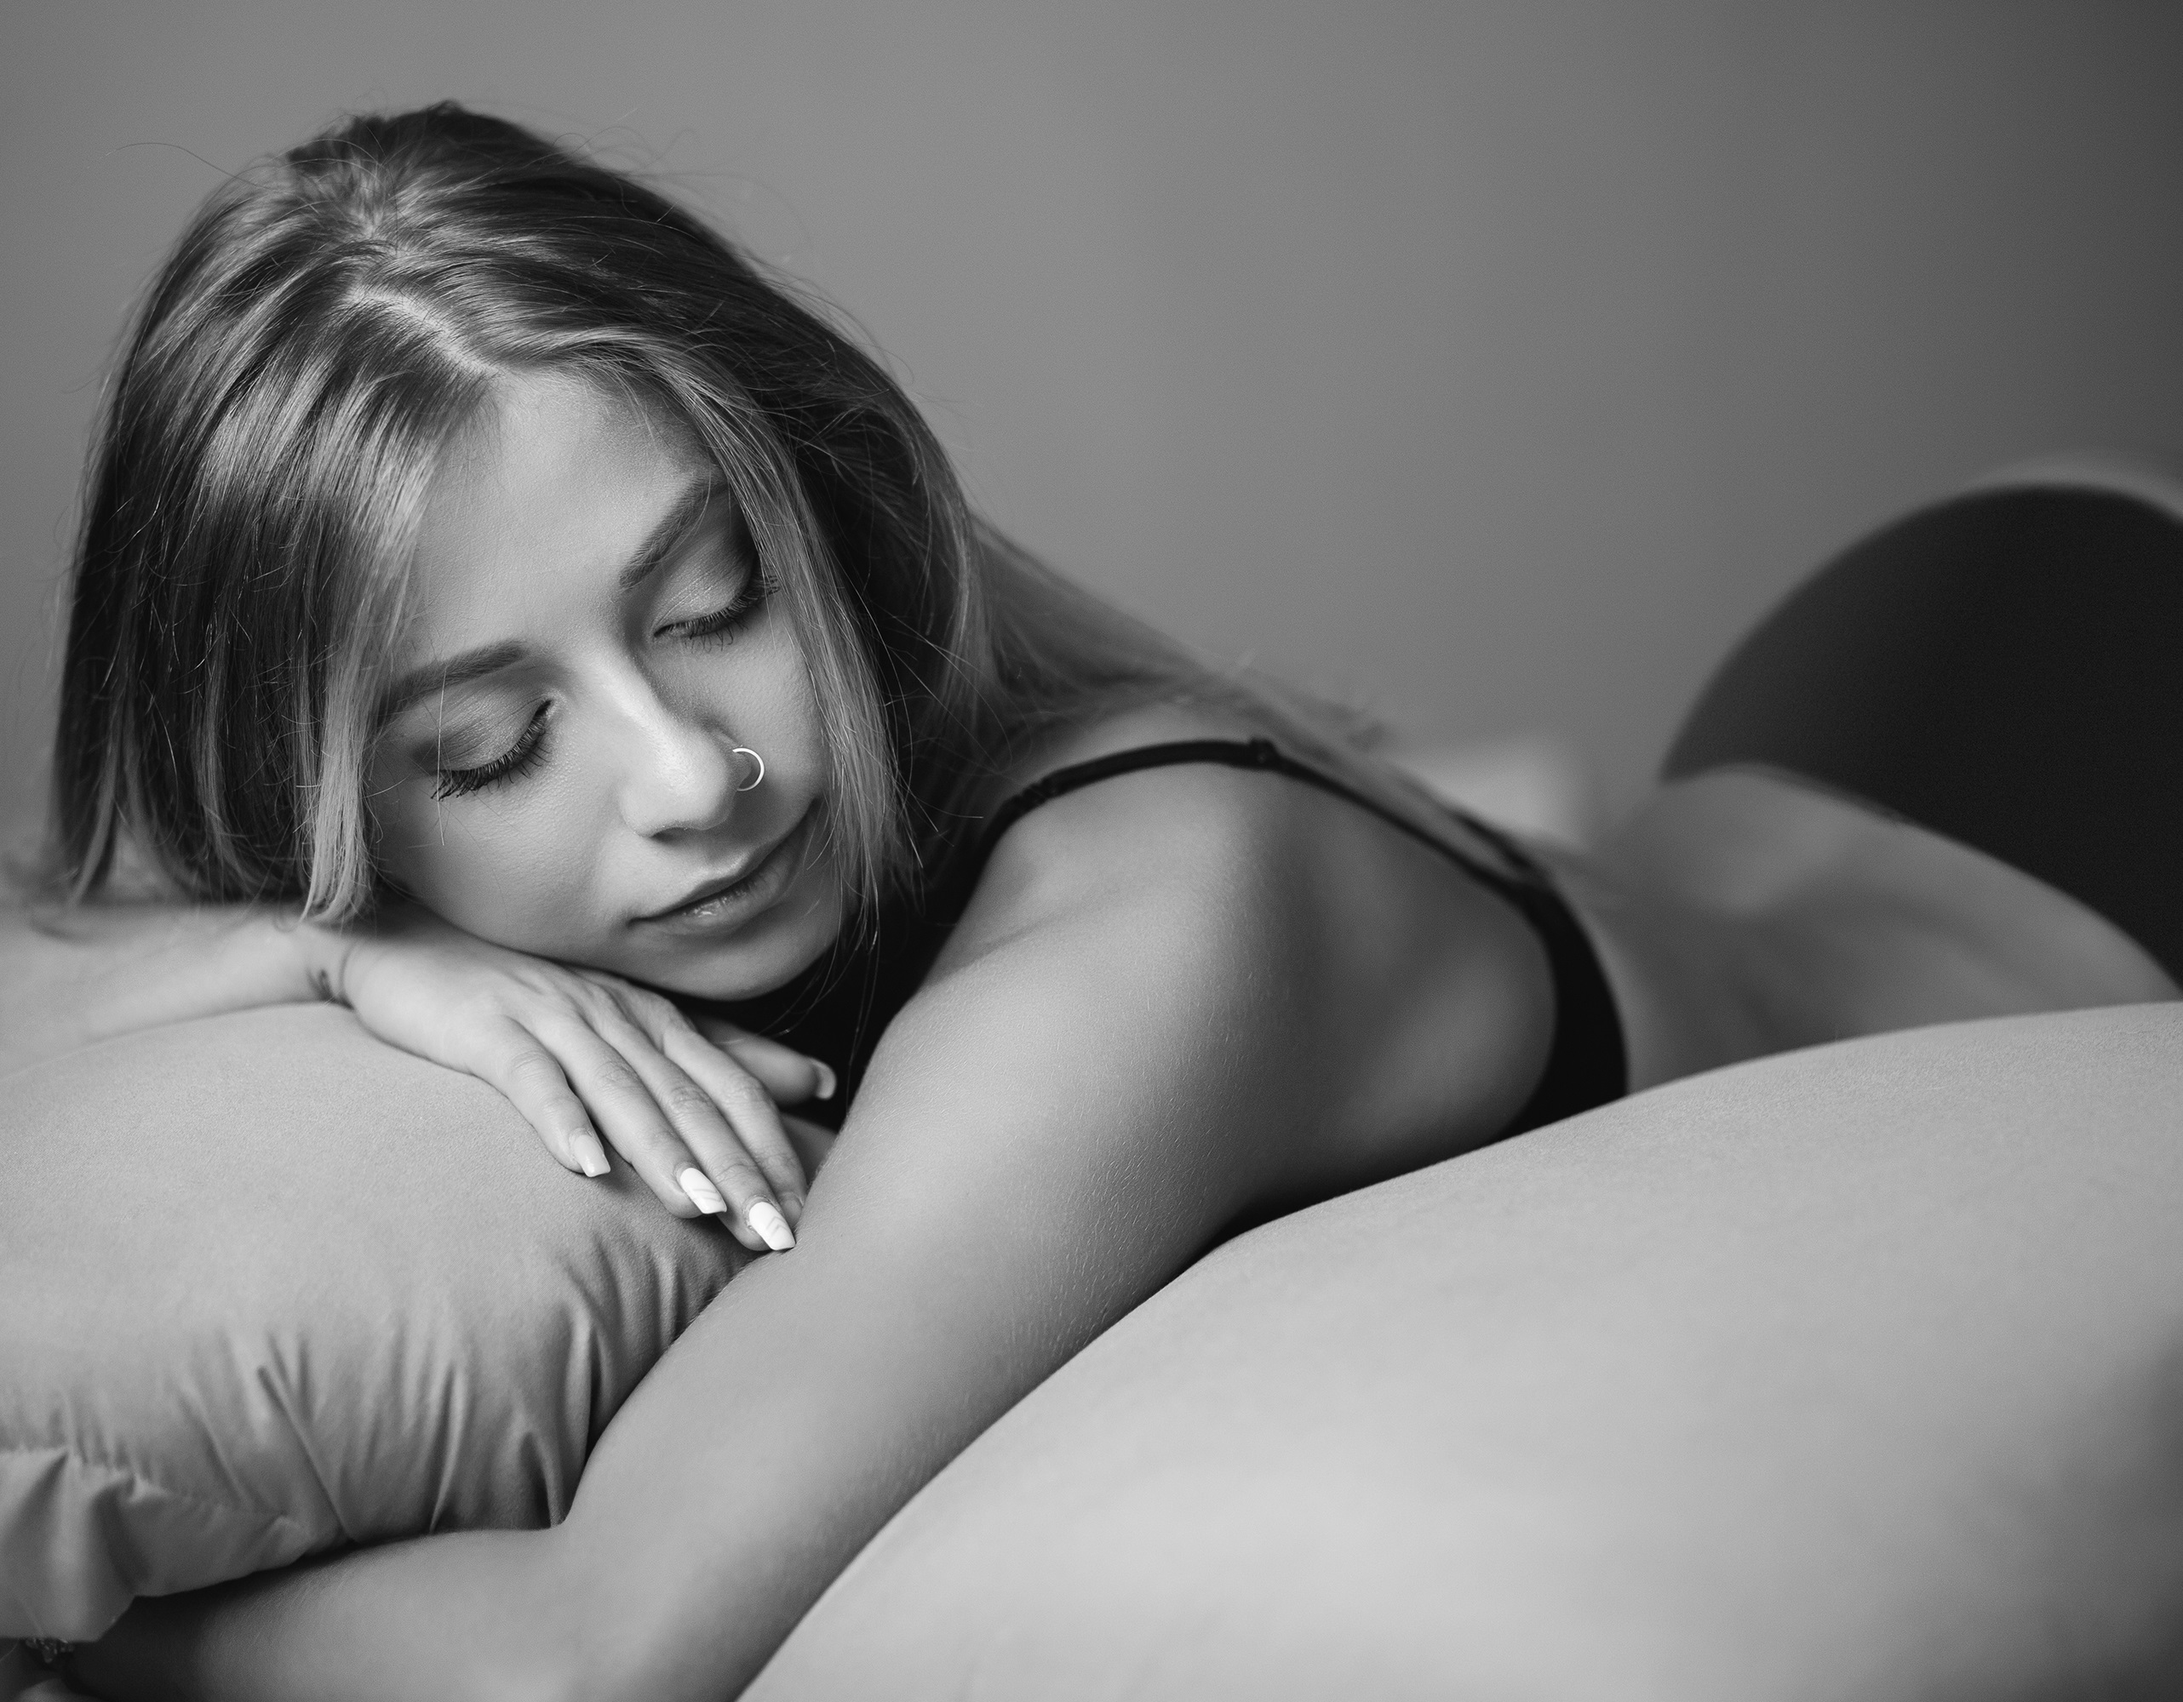
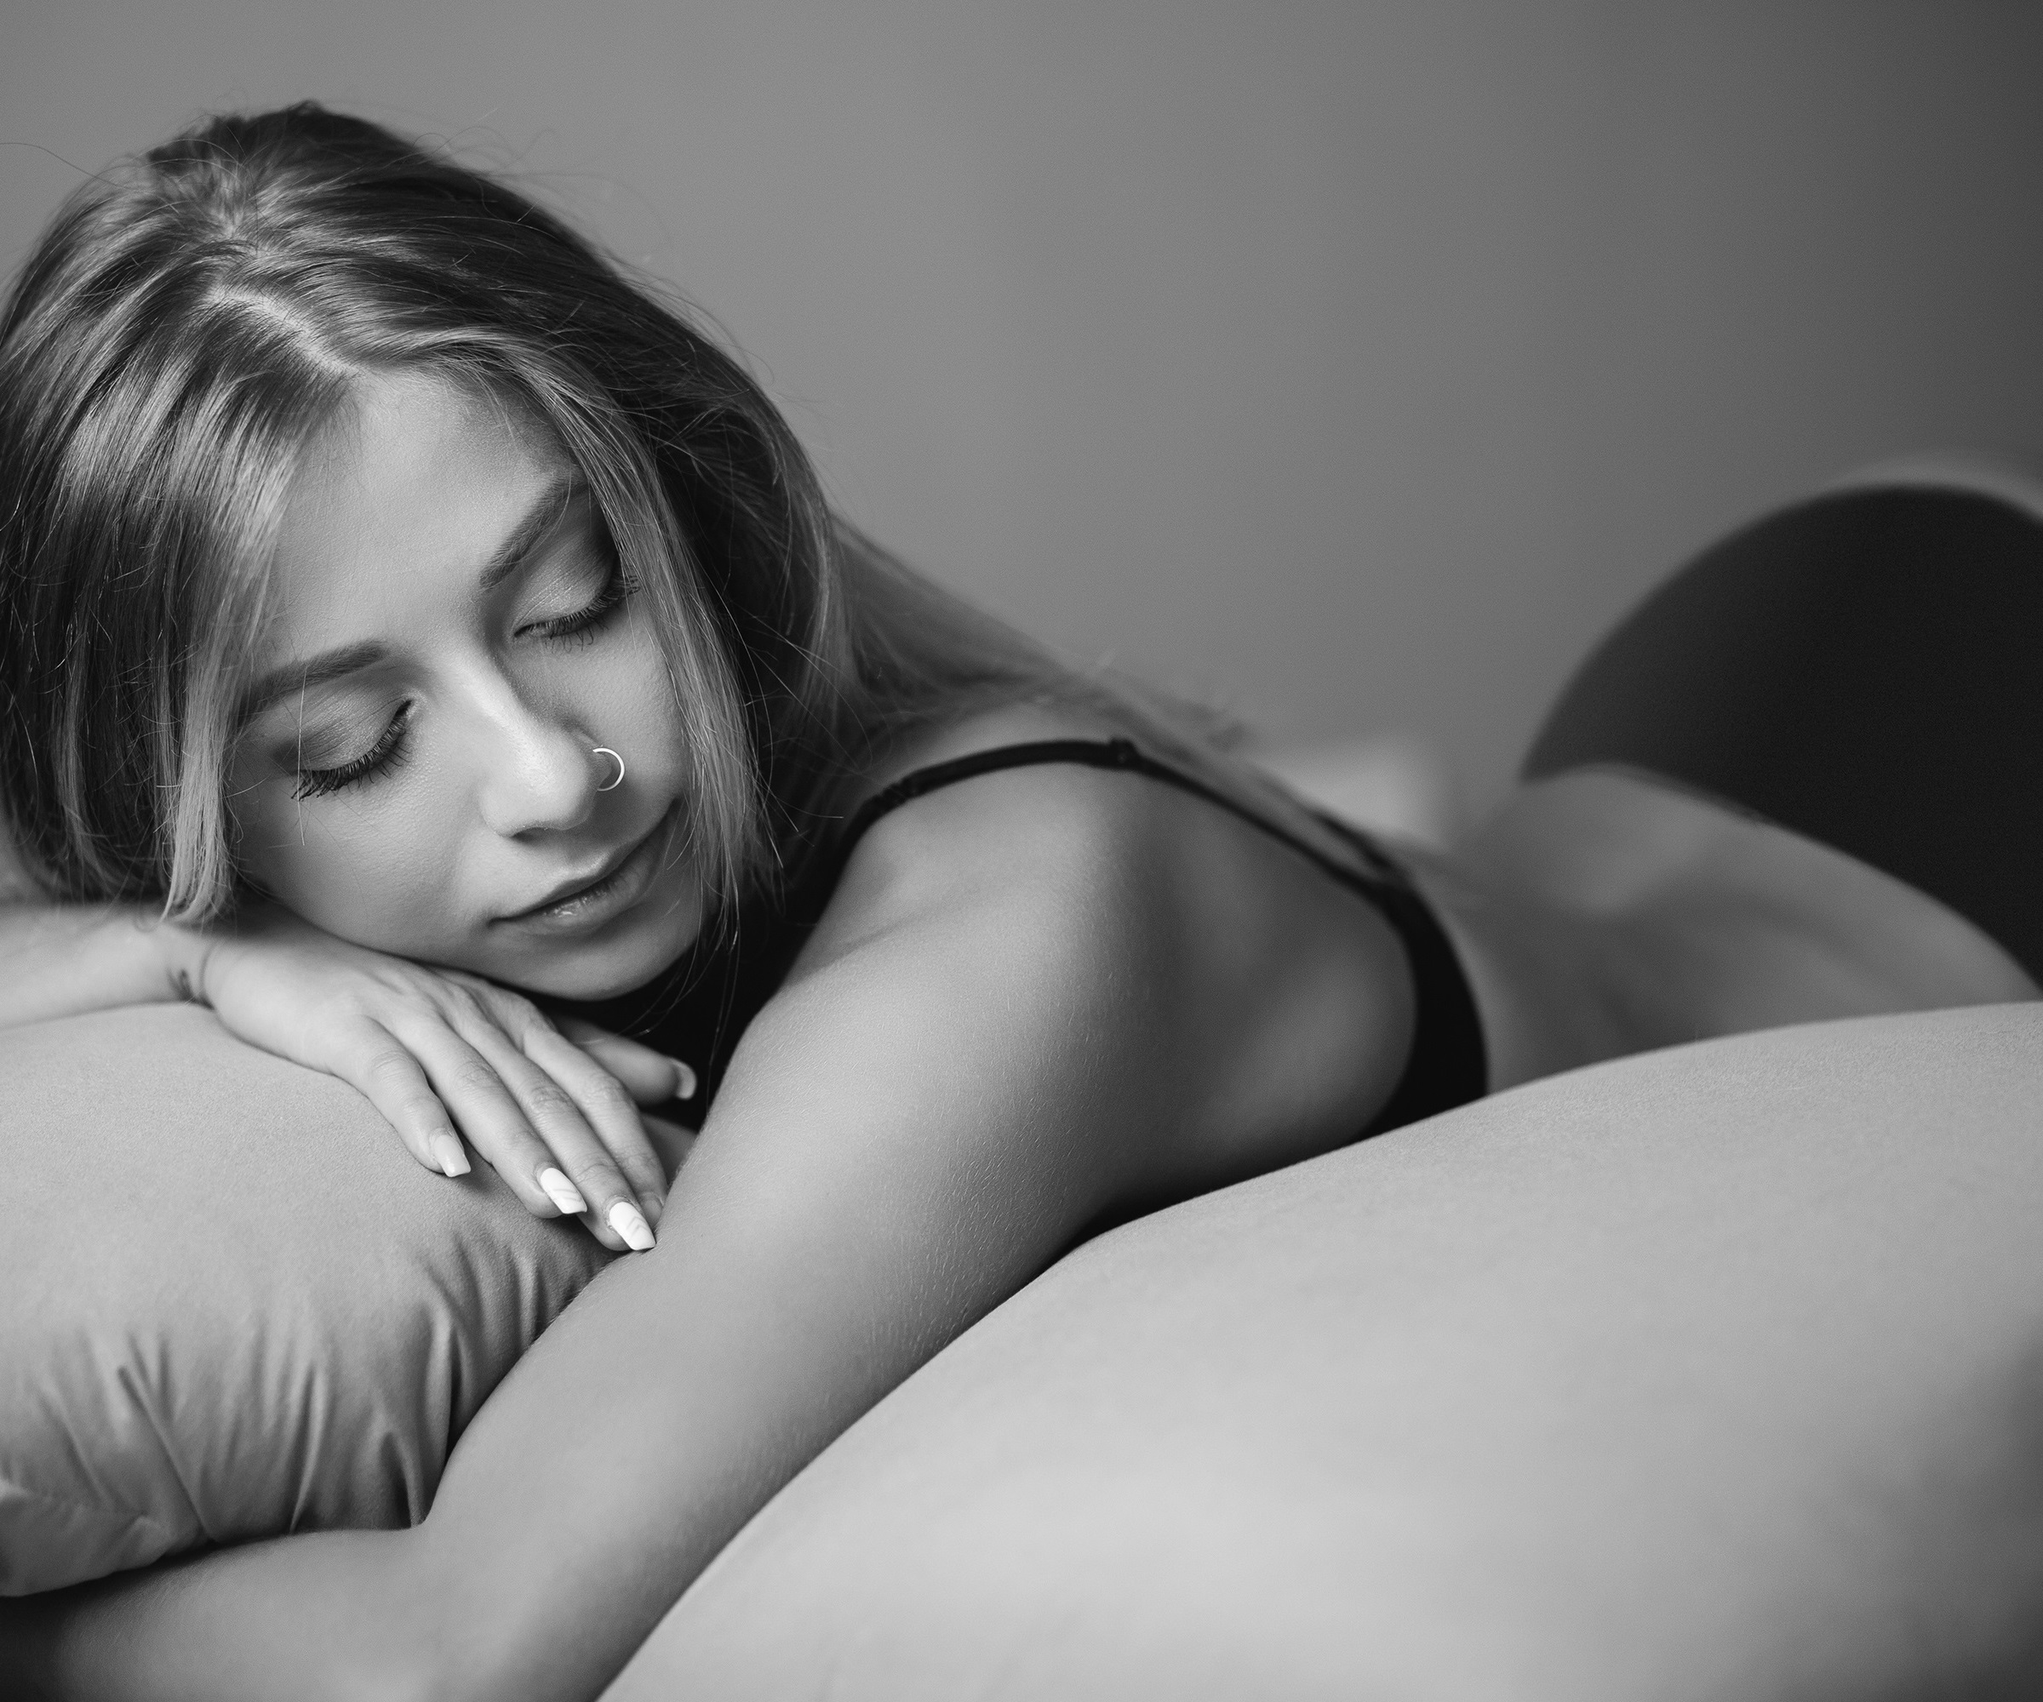
Foto stats y hero invertidas

diff --git a/src/components/Hero.tsx b/src/components/Hero.tsx
@@ -1,4 +1,5 @@
 import pic2 from "../../public/hero/pic2.jpg"
+import pic1 from "public/cta/pic1.jpg"
 import Image from "next/image";
 import logoNegro from 'public/logo-negro.png'
 
@@ -32,7 +33,7 @@ export default function Hero() {
         </svg>
       </div>
 
-      <div className="h-full lg:h-[calc(100%-0px)] relative">
+      <div className="h-full lg:h-[calc(100%-4rem)] relative">
         <div className="mx-auto max-w-7xl flex flex-col gap-8 lg:grid lg:grid-cols-12 lg:gap-x-8 lg:px-8 h-full">
           <div className="px-6 h-max py-8 lg:col-span-6 lg:px-0 xl:col-span-6 lg:h-full flex items-center justify-center">
             <div className="mx-auto max-w-2xl lg:ml-8">
@@ -73,8 +74,8 @@ export default function Hero() {
           <div className="hidden lg:inline-block h-full relative lg:col-span-6 lg:-mr-8 xl:absolute xl:inset-0 xl:left-1/2 xl:mr-0">
             <Image
               fill
-              className="lg:rounded-bl-[33%] w-full object-cover lg:aspect-auto lg:h-full object-[-75px] sm:object-center lg:object-[-150px]"
-              src={pic2}
+              className="lg:rounded-bl-[33%] w-full object-cover lg:aspect-auto lg:h-full object-[-75px] sm:object-center"
+              src={pic1}
               alt=""
             />
           </div>

diff --git a/src/components/Stats.tsx b/src/components/Stats.tsx
@@ -1,5 +1,8 @@
 import Image from "next/image"
 import pic1 from "public/cta/pic1.jpg"
+import pic2 from "../../public/hero/pic2.jpg"
+import pic3 from "../../public/hero/pic3.jpg"
+
 
 const stats = [
   { id: 1, name: 'Creadores de contenido', value: '1.000+' },
@@ -19,12 +22,22 @@ export default function Stats() {
             <path d="M0 0V1135H843.5C831 1068 730 809.5 556.5 718.5C433.5 661 163 582 163 404.5C154 317 222.5 26.5 0 0Z" fill="black" />
           </svg>
         </div>
-        <Image
-          fill
-          className="object-cover lg:rounded-r-3xl"
-          src={pic1}
-          alt=""
-        />
+        <div className="lg:hidden">
+          <Image
+            fill
+            className="object-cover lg:rounded-r-3xl"
+            src={pic1}
+            alt=""
+          />
+        </div>
+        <div className="hidden lg:inline-block">
+          <Image
+            fill
+            className="object-cover lg:rounded-r-3xl"
+            src={pic2}
+            alt=""
+          />
+        </div>
       </div>
       <div className="mx-auto grid lg:grid-cols-2">
         <div className="px-6 py-8 sm:pb-24 sm:pt-20 lg:col-start-2 lg:px-8 lg:pt-24">

diff --git a/src/components/Content.tsx b/src/components/Content.tsx
@@ -1,6 +1,6 @@
 import { CurrencyDollarIcon, VideoCameraIcon } from '@heroicons/react/20/solid'
 
-export default function   Content() {
+export default function Content() {
   return (
     <div className="relative isolate overflow-hidden px-6 py-8 sm:pb-0 sm:pt-24 lg:overflow-visible lg:px-0">
 
